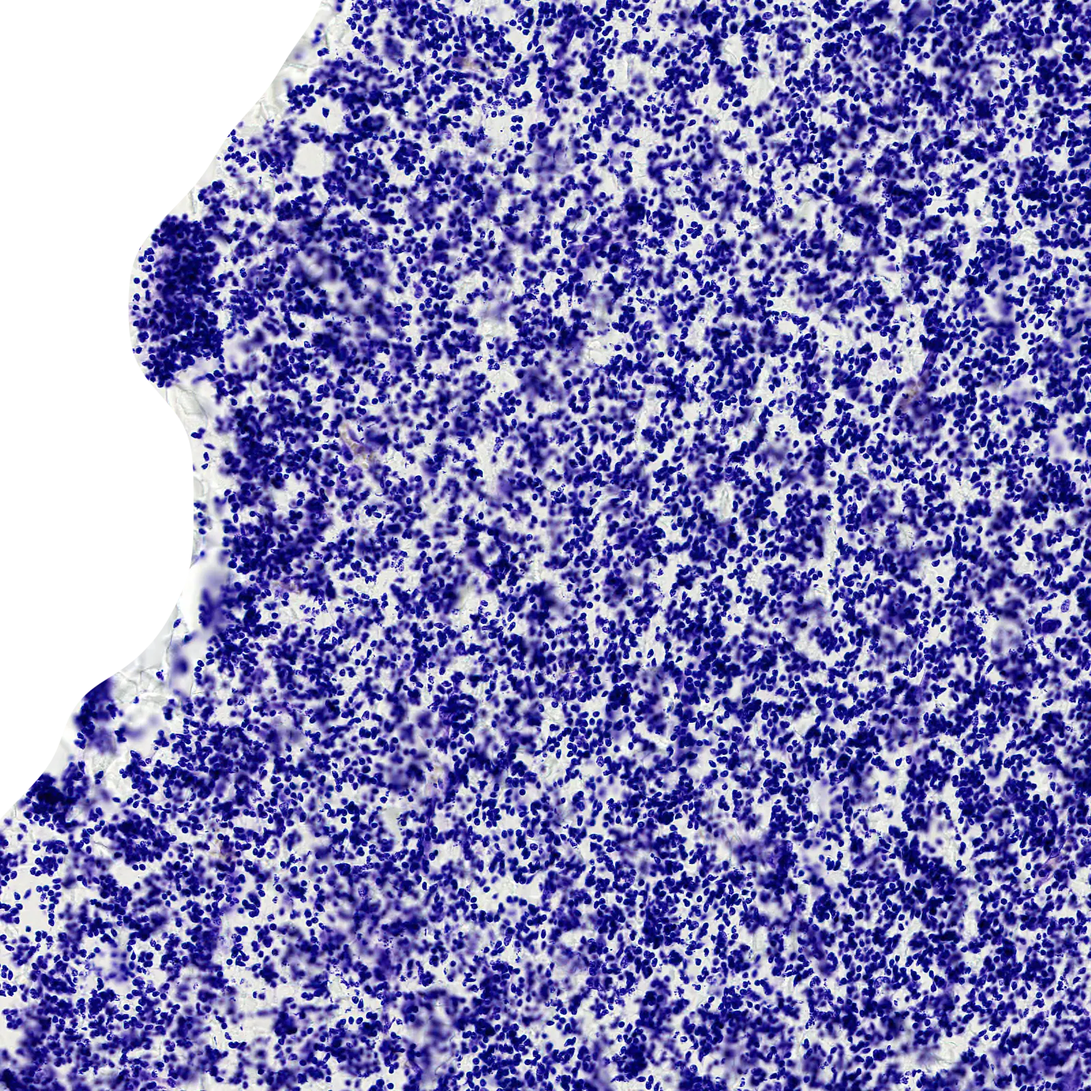
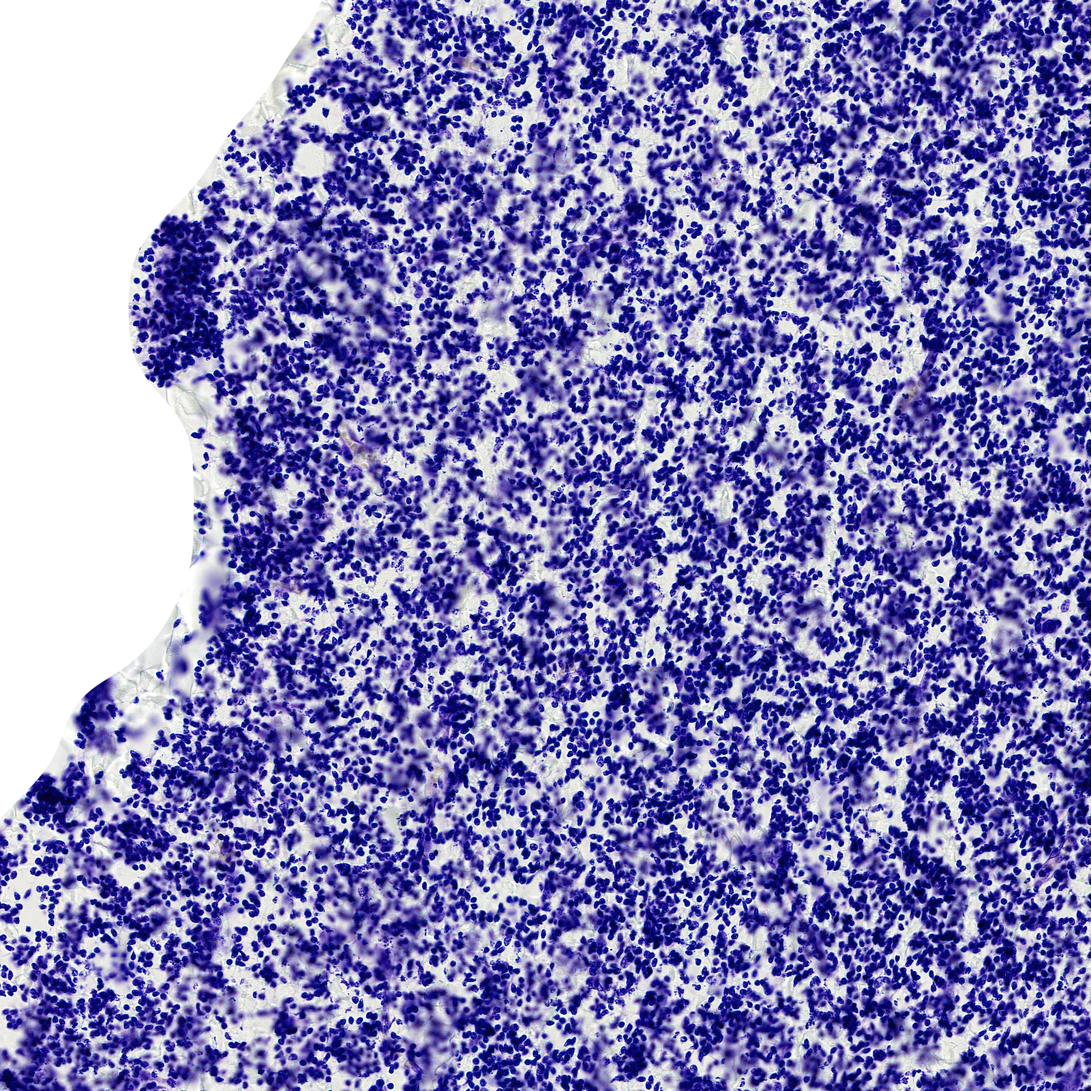
Real cells at 0.5 um and a bridge from the cells to the myelin fibres
The deepest Nissl level now comes from the lossless scan, stored lossless,
with blue carrying the nuclei where red clips. A curve for the darkest part
of the stain and interpolation through the scan's own pixels keep nuclei
separate; the dive targets one isolated nucleus and the cells stop shows a
wider field. Between cytoarchitecture and myelin the cells stay on screen:
fibres grow out of them in the stain's violet, take their direction colours
at the myelin stop, and draw back in on the way out, with a short caption.

diff --git a/assets/dive/fibres.js b/assets/dive/fibres.js
@@ -1,15 +1,18 @@
 /* Fibres behind the myelin stop. Hue in the published streamline figure encodes fibre direction, so the
    direction can be read back from it (orientation = hue / 2), smoothed in double-angle form where 0 and 180
    degrees agree, and integrated into streamlines. Drawn additively in their own small WebGL2 context, built
-   only when the page first gets near the stop. Spikes are simulated; the pointer lights nearby fibres. */
+   only when the page first gets near the stop. Spikes are simulated; the pointer lights nearby fibres.
+   The canvas is transparent, so the fibres can grow out of the Nissl field in its violet, each from its seed
+   point, take on their direction colours at the myelin stop, and draw back into the cells on the way out. */
 (() => {
   'use strict';
   const VERT = `#version 300 es
 layout(location=0) in vec3 aPos;     // x, y, side
 layout(location=1) in vec4 aInfo;    // tangent x, y, arc, depth
+layout(location=2) in float aLine;   // 0 at the seed, 1 at the far end of the line
 uniform vec2 scale, centre, pointer;
-uniform float time, zoom, fade;
-out vec3 vCol; out float vSide;
+uniform float time, zoom, fade, grow, tint;
+out vec3 vCol; out float vSide, vGrown;
 vec3 hueRgb(float h) { return clamp(abs(fract(h + vec3(0.0, 2.0 / 3.0, 1.0 / 3.0)) * 6.0 - 3.0) - 1.0, 0.0, 1.0); }
 void main() {
   float z = 1.0 + aInfo.w * 0.5;
@@ -19,15 +22,19 @@ void main() {
   float wave = pow(0.5 + 0.5 * sin(aInfo.z * 7.0 - time * 1.5 + aInfo.w * 9.0), 24.0);
   float near = exp(-dot(p - pointer, p - pointer) / 0.045);
   float hue = fract(atan(-aInfo.y, aInfo.x + 1e-5) / 3.14159265);
-  vec3 c = hueRgb(hue);
-  vCol = (mix(c, vec3(1.0, 0.97, 0.9), wave * 0.7) * (0.20 + wave * 1.1 + near * 0.55)) * (1.0 - 0.6 * aInfo.w) * fade;
+  vec3 c = mix(hueRgb(hue), vec3(0.62, 0.50, 1.0), tint);
+  vCol = (mix(c, vec3(1.0, 0.97, 0.9), wave * 0.7) * (0.20 + 0.5 * tint + wave * 1.1 + near * 0.55)) * (1.0 - 0.6 * aInfo.w) * fade;
   vSide = aPos.z;
+  vGrown = clamp((grow * 1.4 - aInfo.w * 0.35 - aLine) / 0.05, 0.0, 1.0);
   gl_Position = vec4(q, 0.0, 1.0);
 }`;
   const FRAG = `#version 300 es
 precision highp float;
-in vec3 vCol; in float vSide; out vec4 o;
-void main() { o = vec4(vCol * (1.0 - smoothstep(0.2, 1.0, abs(vSide))), 1.0); }`;
+in vec3 vCol; in float vSide, vGrown; out vec4 o;
+void main() {
+  vec3 c = vCol * vGrown * (1.0 - smoothstep(0.2, 1.0, abs(vSide)));
+  o = vec4(c, max(c.r, max(c.g, c.b)));
+}`;
 
   function createFibres(canvas, src) {
     let gl = null, prog = null, count = 0, u = {}, wanted = false, amount = 0, ready = false, W = 1, H = 1;
@@ -66,28 +73,29 @@ void main() { o = vec4(vCol * (1.0 - smoothstep(0.2, 1.0, abs(vSide))), 1.0); }`
         return pts;
       };
       let seed = 7; const rnd = () => (seed = (seed * 16807) % 2147483647) / 2147483647;
-      const P = [], I = [], ix = [];
+      const P = [], I = [], A = [], ix = [];
       let verts = 0, made = 0, tries = 0;
       const sc = 2.0 / h;
       while (made < 2200 && tries < 60000 && verts < 180000) {
         tries++;
         const sx = 1 + rnd() * (w - 2), sy = 1 + rnd() * (h - 2);
         if (!mask[(sy | 0) * w + (sx | 0)]) continue;
-        const line = walk(sx, sy, -1).reverse().concat([[sx, sy]], walk(sx, sy, 1));
+        const back = walk(sx, sy, -1).reverse(), line = back.concat([[sx, sy]], walk(sx, sy, 1));
         if (line.length < 7) continue;
+        const reach = Math.max(back.length, line.length - 1 - back.length);
         const depth = rnd(), base = verts; let arc = rnd() * 6;
         line.forEach((p, i) => {
           const a = line[Math.max(0, i - 1)], b = line[Math.min(line.length - 1, i + 1)];
           let tx = b[0] - a[0], ty = -(b[1] - a[1]); const L = Math.hypot(tx, ty) || 1; tx /= L; ty /= L;
           if (i) arc += Math.hypot(p[0] - line[i - 1][0], p[1] - line[i - 1][1]) * sc;
           const X = (p[0] - w / 2) * sc, Y = -(p[1] - h / 2) * sc;
-          for (const side of [-1, 1]) { P.push(X, Y, side); I.push(tx, ty, arc, depth); }
+          for (const side of [-1, 1]) { P.push(X, Y, side); I.push(tx, ty, arc, depth); A.push(Math.abs(i - back.length) / reach); }
           if (i < line.length - 1) { const v = base + i * 2; ix.push(v, v + 1, v + 2, v + 1, v + 3, v + 2); }
         });
         verts += line.length * 2; made++;
       }
       const vao = gl.createVertexArray(); gl.bindVertexArray(vao);
-      [[P, 3], [I, 4]].forEach(([arr, k], loc) => {
+      [[P, 3], [I, 4], [A, 1]].forEach(([arr, k], loc) => {
         gl.bindBuffer(gl.ARRAY_BUFFER, gl.createBuffer());
         gl.bufferData(gl.ARRAY_BUFFER, new Float32Array(arr), gl.STATIC_DRAW);
         gl.enableVertexAttribArray(loc); gl.vertexAttribPointer(loc, k, gl.FLOAT, false, 0, 0);
@@ -98,7 +106,7 @@ void main() { o = vec4(vCol * (1.0 - smoothstep(0.2, 1.0, abs(vSide))), 1.0); }`
     }
 
     function start() {
-      gl = canvas.getContext('webgl2', { alpha: false, antialias: true, depth: false, stencil: false });
+      gl = canvas.getContext('webgl2', { alpha: true, premultipliedAlpha: true, antialias: true, depth: false, stencil: false });
       if (!gl) return;
       const sh = (t, s) => { const x = gl.createShader(t); gl.shaderSource(x, s); gl.compileShader(x); if (!gl.getShaderParameter(x, gl.COMPILE_STATUS)) throw new Error(gl.getShaderInfoLog(x)); return x; };
       try {
@@ -106,7 +114,7 @@ void main() { o = vec4(vCol * (1.0 - smoothstep(0.2, 1.0, abs(vSide))), 1.0); }`
         gl.attachShader(prog, sh(gl.VERTEX_SHADER, VERT)); gl.attachShader(prog, sh(gl.FRAGMENT_SHADER, FRAG)); gl.linkProgram(prog);
         if (!gl.getProgramParameter(prog, gl.LINK_STATUS)) throw new Error(gl.getProgramInfoLog(prog));
       } catch (e) { console.warn('fibres:', e); gl = null; return; }
-      for (const n of ['scale', 'centre', 'pointer', 'time', 'zoom', 'fade']) u[n] = gl.getUniformLocation(prog, n);
+      for (const n of ['scale', 'centre', 'pointer', 'time', 'zoom', 'fade', 'grow', 'tint']) u[n] = gl.getUniformLocation(prog, n);
       const img = new Image(); img.onload = () => trace(img); img.src = src;
     }
 
@@ -117,13 +125,13 @@ void main() { o = vec4(vCol * (1.0 - smoothstep(0.2, 1.0, abs(vSide))), 1.0); }`
     }, { passive: true });
 
     return {
-      set(a, t) {
+      set(a, t, R, grow, tint) {
         const near = t > 7.5 && t < 10.2;
         if (near && !gl && !prog) start();
         amount = a; wanted = a > 0.002;
         canvas.style.opacity = a.toFixed(3);
         canvas.style.visibility = wanted ? 'visible' : 'hidden';
-        this.t = t;
+        this.R = R; this.grow = grow; this.tint = tint;
       },
       running: () => wanted && ready,
       draw(now) {
@@ -134,14 +142,16 @@ void main() { o = vec4(vCol * (1.0 - smoothstep(0.2, 1.0, abs(vSide))), 1.0); }`
           canvas.style.width = w + 'px'; canvas.style.height = h + 'px';
         }
         gl.viewport(0, 0, canvas.width, canvas.height);
-        gl.clearColor(0.03, 0.026, 0.06, 1); gl.clear(gl.COLOR_BUFFER_BIT);
+        gl.clearColor(0, 0, 0, 0); gl.clear(gl.COLOR_BUFFER_BIT);
         gl.useProgram(prog); gl.enable(gl.BLEND); gl.blendFunc(gl.ONE, gl.ONE);
         gl.uniform2f(u.scale, H / W, 1);
         gl.uniform2f(u.centre, -0.1, 0.0);
         gl.uniform2f(u.pointer, ptr[0], ptr[1]);
         gl.uniform1f(u.time, now * 0.001);
-        gl.uniform1f(u.zoom, (W > H ? 2.1 : 1.5) + 0.5 * Math.min(1, Math.max(0, (this.t - 8.6) / 1.2)));
+        gl.uniform1f(u.zoom, (W > H ? 2.35 : 1.75) * Math.pow(0.1 / this.R, 0.6));   // the fibres move with the camera
         gl.uniform1f(u.fade, 1);
+        gl.uniform1f(u.grow, this.grow);
+        gl.uniform1f(u.tint, this.tint);
         gl.drawElements(gl.TRIANGLES, count, gl.UNSIGNED_INT, 0);
       },
     };

diff --git a/assets/dive/stage.js b/assets/dive/stage.js
@@ -404,7 +404,7 @@ uniform vec2 mapB[5];
 uniform float layWeight[5];
 uniform vec3 densCurve;                // bias, gain, gamma: Nissl brightness -> density
 uniform vec2 cellSize;
-uniform float cellMag, pixAmount, stretchAmount;
+uniform float cellMag, pixAmount, stretchAmount, deepCurve;
 uniform vec2 stretchRange;
 out vec4 fragColour;
 ${RAMP}
@@ -421,25 +421,26 @@ float inside(vec2 uv) {
 float nisslDensity(float lum) {
   return pow(clamp((1.0 - lum - densCurve.x) * densCurve.y, 0.0, 1.0), densCurve.z);
 }
+// under the lens: the curve above calls every nucleus simply "stained" and neighbours merge into one white mass,
+// so spread the darkest part of the stain instead, where the chromatin is
+float cellDensity(float lum) {
+  return mix(nisslDensity(lum), 0.9 * pow(clamp((0.85 - lum) / 0.85, 0.0, 1.0), 2.6), deepCurve);   // below white: it would go grey under the scrim
+}
 void over(inout vec3 col, sampler2D tex, vec2 uv, float w) {
   vec4 c = texture(tex, uv);
-  col = mix(col, ramp(nisslDensity(c.r)), c.a * inside(uv) * w);
+  col = mix(col, ramp(cellDensity(c.r)), c.a * inside(uv) * w);
 }
-// smooth magnification: four bilinear taps of a cubic B-spline
+// magnification: Catmull-Rom passes through the scan's own pixels, so it adds no blur of its own
 vec4 cubicTap(sampler2D tex, vec2 uv, vec2 size) {
   vec2 st = uv * size - 0.5;
   vec2 i = floor(st), f = st - i;
-  vec2 f2 = f * f, f3 = f2 * f;
-  vec2 w0 = (1.0 - 3.0 * f + 3.0 * f2 - f3) / 6.0;
-  vec2 w1 = (4.0 - 6.0 * f2 + 3.0 * f3) / 6.0;
-  vec2 w2 = (1.0 + 3.0 * f + 3.0 * f2 - 3.0 * f3) / 6.0;
-  vec2 w3 = f3 / 6.0;
-  vec2 g0 = w0 + w1, g1 = w2 + w3;
-  vec2 p0 = (i - 0.5 + w1 / g0) / size;
-  vec2 p1 = (i + 1.5 + w3 / g1) / size;
-  vec4 a = textureLod(tex, vec2(p0.x, p0.y), 0.0) * g0.x + textureLod(tex, vec2(p1.x, p0.y), 0.0) * g1.x;
-  vec4 b = textureLod(tex, vec2(p0.x, p1.y), 0.0) * g0.x + textureLod(tex, vec2(p1.x, p1.y), 0.0) * g1.x;
-  return a * g0.y + b * g1.y;
+  vec2 wx[4] = vec2[4](f * (-0.5 + f * (1.0 - 0.5 * f)), 1.0 + f * f * (-2.5 + 1.5 * f),
+                       f * (0.5 + f * (2.0 - 1.5 * f)), f * f * (-0.5 + 0.5 * f));
+  ivec2 at = ivec2(i) - 1, top = ivec2(size) - 1;
+  vec4 c = vec4(0.0);
+  for (int y = 0; y < 4; y++) for (int x = 0; x < 4; x++)
+    c += texelFetch(tex, clamp(at + ivec2(x, y), ivec2(0), top), 0) * wx[x].x * wx[y].y;
+  return clamp(c, 0.0, 1.0);
 }
 
 void main() {
@@ -466,7 +467,7 @@ void main() {
       ivec2 ip = clamp(ivec2(floor(texel)), ivec2(0), ivec2(cellSize) - 1);
       c = mix(c, texelFetch(layD, ip, 0), pixAmount);
     }
-    float d = nisslDensity(c.r);
+    float d = cellDensity(c.r);
     float a = c.a * inside(uv) * layWeight[4];
     if (stretchAmount > 0.001) {
       // inside the nucleus the pixels differ only slightly: spread them so they read as separate squares
@@ -593,18 +594,19 @@ void main() {
     // the final pixel, in the coordinates of the deepest image (0..1), and its local contrast range
     const cell = { u: 0.5, v: 0.5, w: 1600, h: 1600, lo: 0.75, hi: 0.95 };
 
-    // darkest cluster near the middle of the cell image: a nucleus; then the darkest pixel's neighbourhood
-    function pickCell(img, w, h) {
+    // darkest cluster near the given nucleus (or the middle of the cell image); then the darkest pixel's neighbourhood
+    function pickCell(img, w, h, at) {
       try {
         const R = 130, side = 2 * R;
         const c = document.createElement('canvas'); c.width = c.height = side;
         const x = c.getContext('2d', { willReadFrequently: true });
-        const x0 = Math.round(w / 2 - R), y0 = Math.round(h / 2 - R);
+        const x0 = Math.round((at ? at[0] : 0.5) * w - R), y0 = Math.round((at ? at[1] : 0.5) * h - R);
+        const edge = at ? R - 14 : 12;
         x.drawImage(img, -x0, -y0);
         const px = x.getImageData(0, 0, side, side).data;
         const dark = (i, j) => { const o = (j * side + i) * 4; return px[o + 3] > 200 ? 255 - px[o] : 0; };
         let best = -1, bi = R, bj = R;
-        for (let j = 12; j < side - 12; j += 2) for (let i = 12; i < side - 12; i += 2) {
+        for (let j = edge; j < side - edge; j += 2) for (let i = edge; i < side - edge; i += 2) {
           let sum = 0;
           for (let b = -4; b <= 4; b++) for (let a = -4; a <= 4; a++) sum += dark(i + a, j + b);
           if (sum > best) { best = sum; bi = i; bj = j; }
@@ -705,7 +707,7 @@ void main() {
         for (let i = 0; i < levels.length; i++) {
           const r = await greyImage(levels[i].src);
           levels[i].tex = r.tex; levels[i].w = r.w; levels[i].h = r.h;
-          if (i === levels.length - 1) { pickCell(r.img, r.w, r.h); cell.w = r.w; cell.h = r.h; }
+          if (i === levels.length - 1) { pickCell(r.img, r.w, r.h, spec.cell); cell.w = r.w; cell.h = r.h; }
           opts.onChange();
         }
       } catch (e) { console.warn('stage:', e); }
@@ -961,7 +963,8 @@ void main() {
       gl.uniform3f(C.densCurve, 0.08, 1.4, 0.8);
       gl.uniform2f(C.cellSize, cell.w, cell.h);
       gl.uniform1f(C.cellMag, mag);
-      gl.uniform1f(C.pixAmount, smooth(6, 14, mag));
+      gl.uniform1f(C.deepCurve, 1 - smooth(750, 2250, cam.F / srcMm));     // by field of view, so a phone matches a laptop
+      gl.uniform1f(C.pixAmount, smooth(14, 30, mag));
       gl.uniform1f(C.stretchAmount, cam.stretch);
       gl.uniform2f(C.stretchRange, cell.lo, cell.hi);
       gl.drawArrays(gl.TRIANGLE_STRIP, 0, 4);

diff --git a/assets/dive/dive.js b/assets/dive/dive.js
@@ -223,9 +223,13 @@
     benchY: track([[2.6, 0], [2.9, 0.055], [4.47, 0.055], [4.5, 0]]),
     sideN: track([[2.55, 1], [2.85, 0.22], [4.47, 0.22], [4.5, 1], [11.5, 1], [12, 0]]),
     scrim: track([[0.6, 0], [1, 0.5], [2.5, 0.5], [2.8, 0], [4.45, 0], [4.8, 0.8], [11.4, 0.85], [12, 0]]),
-    dim: track([[5, 0], [5.15, 0.45], [5.5, 0.45], [5.75, 0], [7.8, 0], [8, 0.6], [8.5, 0.6], [8.72, 1], [9.6, 1], [9.85, 0]]),
+    dim: track([[5, 0], [5.15, 0.45], [5.5, 0.45], [5.75, 0], [7.8, 0], [8, 0.6], [8.5, 0.6], [8.6, 0.3], [8.84, 0.3], [9.02, 1], [9.56, 1], [9.66, 0.3], [9.76, 0.3], [9.85, 0]]),
     stretch: track([[11.55, 0], [11.98, 1]]),
-    fibres: track([[8.6, 0], [8.85, 1], [9.55, 1], [9.8, 0]]),
+    // the bridge: fibres grow out of the cells in the stain's violet, turn to direction colours, then draw back in
+    fibres: track([[8.54, 0], [8.6, 1], [9.66, 1], [9.8, 0]]),
+    fibreGrow: track([[8.58, 0], [8.94, 1], [9.56, 1], [9.76, 0]]),
+    fibreTint: track([[8.74, 1], [9.0, 0], [9.56, 0], [9.7, 1]]),
+    bridge: track([[8.62, 0], [8.67, 1], [8.78, 1], [8.83, 0]]),
     // the bench: t 2.7 .. 4.5
     histX: track([[2.72, 0], [3, -41], [3.55, -41], [3.85, 0], [4.26, 0], [4.31, -41], [4.355, -41], [4.39, 0]]),
     mriX: track([[2.72, 34], [3, 41], [3.55, 41], [3.85, 150], [4.24, 150], [4.31, 41], [4.355, 41], [4.39, 0]]),
@@ -355,6 +359,7 @@
   let lastGw = '', lastStep = null;
   const regTitle = $('#reg-title'), regText = $('#reg-text');
   const fibres = window.createFibres($('#fibres'), 'assets/img/myelin/streamlines_section.webp');
+  const bridgeEl = $('#bridge');
 
   function updatePage(t, F) {
     const IN = 0.2, OUT = 0.2;
@@ -395,7 +400,10 @@
     for (const x of STEPS) if (t >= x[0]) step = x;
     if (step !== lastStep) { lastStep = step; regTitle.textContent = step[1]; regText.textContent = step[2]; }
     const hasFibres = K.fibres(t);
-    fibres.set(hasFibres, t);
+    fibres.set(hasFibres, t, F / 2, K.fibreGrow(t), K.fibreTint(t));
+    const bridge = flight ? 0 : K.bridge(t);
+    bridgeEl.style.opacity = bridge.toFixed(3);
+    bridgeEl.style.visibility = bridge > 0.004 ? 'visible' : 'hidden';
     setActive(clamp(Math.floor(t + 0.25), 0, N - 1));
     const whole = Math.floor(t), part = t - whole;
     const stepped = whole + smooth(0.5, 1, part);

diff --git a/index.html b/index.html
@@ -187,7 +187,7 @@
       <figure class="plate lens pf" data-mm="3.996"><div class="lens-glass"><img data-src="assets/img/ge/pf_ge_mid.webp" alt="Green and red immunostained cells streaming out of the ganglionic eminence" width="1800" height="1800"></div></figure>
     </section>
 
-    <section class="stop" id="cytoarchitecture" data-r="0.4" data-label="Cytoarchitecture" data-plateau="1.2">
+    <section class="stop" id="cytoarchitecture" data-r="0.4" data-label="Cytoarchitecture" data-plateau="1.2" data-transit="1.4">
       <div class="copy">
         <p class="at">Research</p>
         <h2>Cytoarchitecture</h2>
@@ -201,6 +201,8 @@
       <figure class="plate ihc"><img data-src="assets/img/cyto/ihc_layers.webp" alt="Three immunostained markers in red, green and blue across the fetal cortical layers" width="1280" height="1600">
         <figcaption>Three immunostained markers, one per colour, mark different layers of the same wall.</figcaption></figure>
     </section>
+
+    <p class="bridge" id="bridge">Cell bodies send out axons. In the mature brain, myelin wraps them. Stain the myelin instead of the cells, and the pathways appear.</p>
 
     <section class="stop" id="myelin" data-r="0.1" data-label="Myelin pathways" data-plateau="1.3" data-transit="0.6">
       <div class="copy">
@@ -216,7 +218,7 @@
         <figcaption>Close-up: fibres fanning around the internal capsule.</figcaption></figure>
     </section>
 
-    <section class="stop" id="cells" data-r="0.025" data-label="Single cells" data-plateau="1">
+    <section class="stop" id="cells" data-r="0.07" data-label="Single cells" data-plateau="1">
       <div class="copy">
         <p class="at">Same section, same brain</p>
         <h2 style="text-transform:none">0.5&nbsp;µm per pixel</h2>

diff --git a/assets/dive/style.css b/assets/dive/style.css
@@ -295,3 +295,9 @@ html:not(.dive) .bench-panel .sliders, html:not(.dive) #showme, html:not(.dive) 
 @media (max-width: 760px) { .dive.narrow #fetal .small { display: none; } }
 .narrow .links { gap: 2px 12px; font-size: 12px; }
 @media (max-height: 700px) { .dive.narrow .hero .stage-note { display: none; } }
+
+/* between the cells and the fibres */
+.bridge { display: none; }
+.dive .bridge { display: block; position: absolute; left: clamp(24px, 5vw, 80px); top: 50%; transform: translateY(-50%); width: min(38vw, 560px); visibility: hidden;
+  font: italic 300 clamp(24px, 2.2vw, 32px)/1.25 var(--text); text-shadow: 0 0 22px rgba(8, 7, 15, .95), 0 0 6px rgba(8, 7, 15, .8); }
+.dive.narrow .bridge { left: 16px; right: 16px; top: auto; bottom: 112px; transform: none; width: auto; padding: 12px 14px; margin: 0 -14px; background: rgba(8, 7, 15, .66); font-size: 22px; }

diff --git a/tools/media_nissl_cells.py b/tools/media_nissl_cells.py
@@ -1,0 +1,42 @@
+"""The deepest Nissl level from the lossless scan of the section, at the scan's own 0.5 um per pixel.
+
+media_nissl.py took every level from the _compressed.jp2 (2.3 GB). That is fine for the wider levels, but the deepest
+one is shown up to 1000x and the compression had removed the edges of the nuclei. Same box as there, tissue alpha
+kept from the current nissl_cells.webp (media_alpha.py). Two files: nissl_cells.webp stays in colour for the plain
+page; nissl_cells_r.webp is one grey channel, lossless (WebP keeps colour at half resolution), for the stage.
+
+The stage reads red, where a violet stain has its contrast, but red and green are clipped to 0 in about 10% of the
+tissue, the inside of the nuclei. Blue never clips and holds the chromatin. So the grey is red, and below T (where the
+stage's section-level curve is already flat, so nothing changes at low zoom) it is blue, rescaled into 0..T.
+CELL is the target of the dive: a separate, compact nucleus about 9 um across, in pixels of this crop.
+
+usage: python media_nissl_cells.py SITE_DIR [DECODED.png] [QUALITY]
+"""
+import os, sys, json, subprocess, tempfile
+import numpy as np
+from PIL import Image
+SITE = sys.argv[1]
+Q = int(sys.argv[3]) if len(sys.argv) > 3 else 90
+J = "/home/users/jignesh/analytics/244/NISL/B_244_FB85-SL_380-ST_NISL-SE_1138_lossless.jp2"
+OPJ = "/home/users/jignesh/miniconda3/envs/nisslprop/bin/opj_decompress"
+cx, cy, r = 36100, 54300, 800
+T = 51
+CELL = (799, 439)
+png = sys.argv[2] if len(sys.argv) > 2 else os.path.join(tempfile.mkdtemp(), "c.png")
+if not os.path.exists(png):
+    subprocess.run([OPJ, "-i", J, "-o", png, "-r", "0", "-d", f"{cx - r},{cy - r},{cx + r},{cy + r}", "-threads", "8"],
+                   check=True, stdout=subprocess.DEVNULL, stderr=subprocess.DEVNULL)
+out = f"{SITE}/assets/img/ge/nissl_cells.webp"
+alpha = np.array(Image.open(out).convert("RGBA"))[..., 3]
+rgb = np.array(Image.open(png).convert("RGB"))
+assert rgb.shape[:2] == alpha.shape
+Image.fromarray(np.dstack([rgb, alpha]), "RGBA").save(out, quality=Q, method=6, alpha_quality=90)
+red = out.replace("nissl_cells", "nissl_cells_r")
+r = rgb[..., 0].astype(np.float32); b = rgb[..., 2].astype(np.float32)
+g = np.where(r >= T, r, T * np.clip((b - 60) / 110, 0, 1)).astype(np.uint8)
+Image.fromarray(np.dstack([g, g, g, alpha]), "RGBA").save(red, lossless=True, method=6)
+print(os.path.getsize(out) // 1024, "KB colour,", os.path.getsize(red) // 1024, "KB red", flush=True)
+z = f"{SITE}/assets/img/ge/nissl_zoom.json"
+spec = json.load(open(z)); spec["levels"][3]["src"] = "assets/img/ge/nissl_cells_r.webp"
+spec["cell"] = [(CELL[0] + 0.5) / rgb.shape[1], (CELL[1] + 0.5) / rgb.shape[0]]
+json.dump(spec, open(z, "w"), indent=1)

diff --git a/README.md b/README.md
@@ -12,7 +12,8 @@ the content and `assets/dive/style.css` for the styling.
 - `assets/dive/stage.js`: WebGL2 ray marching of the volumes, the two-volume bench (histology and MRI) and the
   composite with the flat Nissl levels. `?still` stops the idle motion, `?flat` forces the plain page, which is also
   what visitors without WebGL2 or with reduced motion get.
-- `assets/dive/fibres.js`: the fibre background of the myelin stop, traced from the published streamline figure.
+- `assets/dive/fibres.js`: the fibre background of the myelin stop, traced from the published streamline figure. The
+  fibres grow out of the Nissl field and draw back into it, which bridges the cells and the myelin stop.
 
 ## Data
 
@@ -22,6 +23,8 @@ the content and `assets/dive/style.css` for the styling.
 - `assets/volumes/hist24/`: the 24-week Nissl at 128 µm for the blade's cut face, as WebP sheets of sections, from the
   same 64 µm stack as `dharani_24gw` (`tools/build_hist24_hires.py`). Lost sections are filled and stain is evened out
   against the web volume. Loaded last and only on wide screens; the rest of the bench stays on the 0.36 mm volume.
+- `assets/img/ge/nissl_cells_r.webp`: the deepest Nissl level, lossless at the scan's 0.5 µm per pixel, from the
+  `_lossless.jp2` of the section, with blue carrying the nuclei where red clips (`tools/media_nissl_cells.py`).
 - `assets/img/`: section images, zoom levels and renders. Immunostained and myelin images are shown without marker names.
 - `tools/`: the scripts that made these files (paths are local to the machines they ran on).
 
